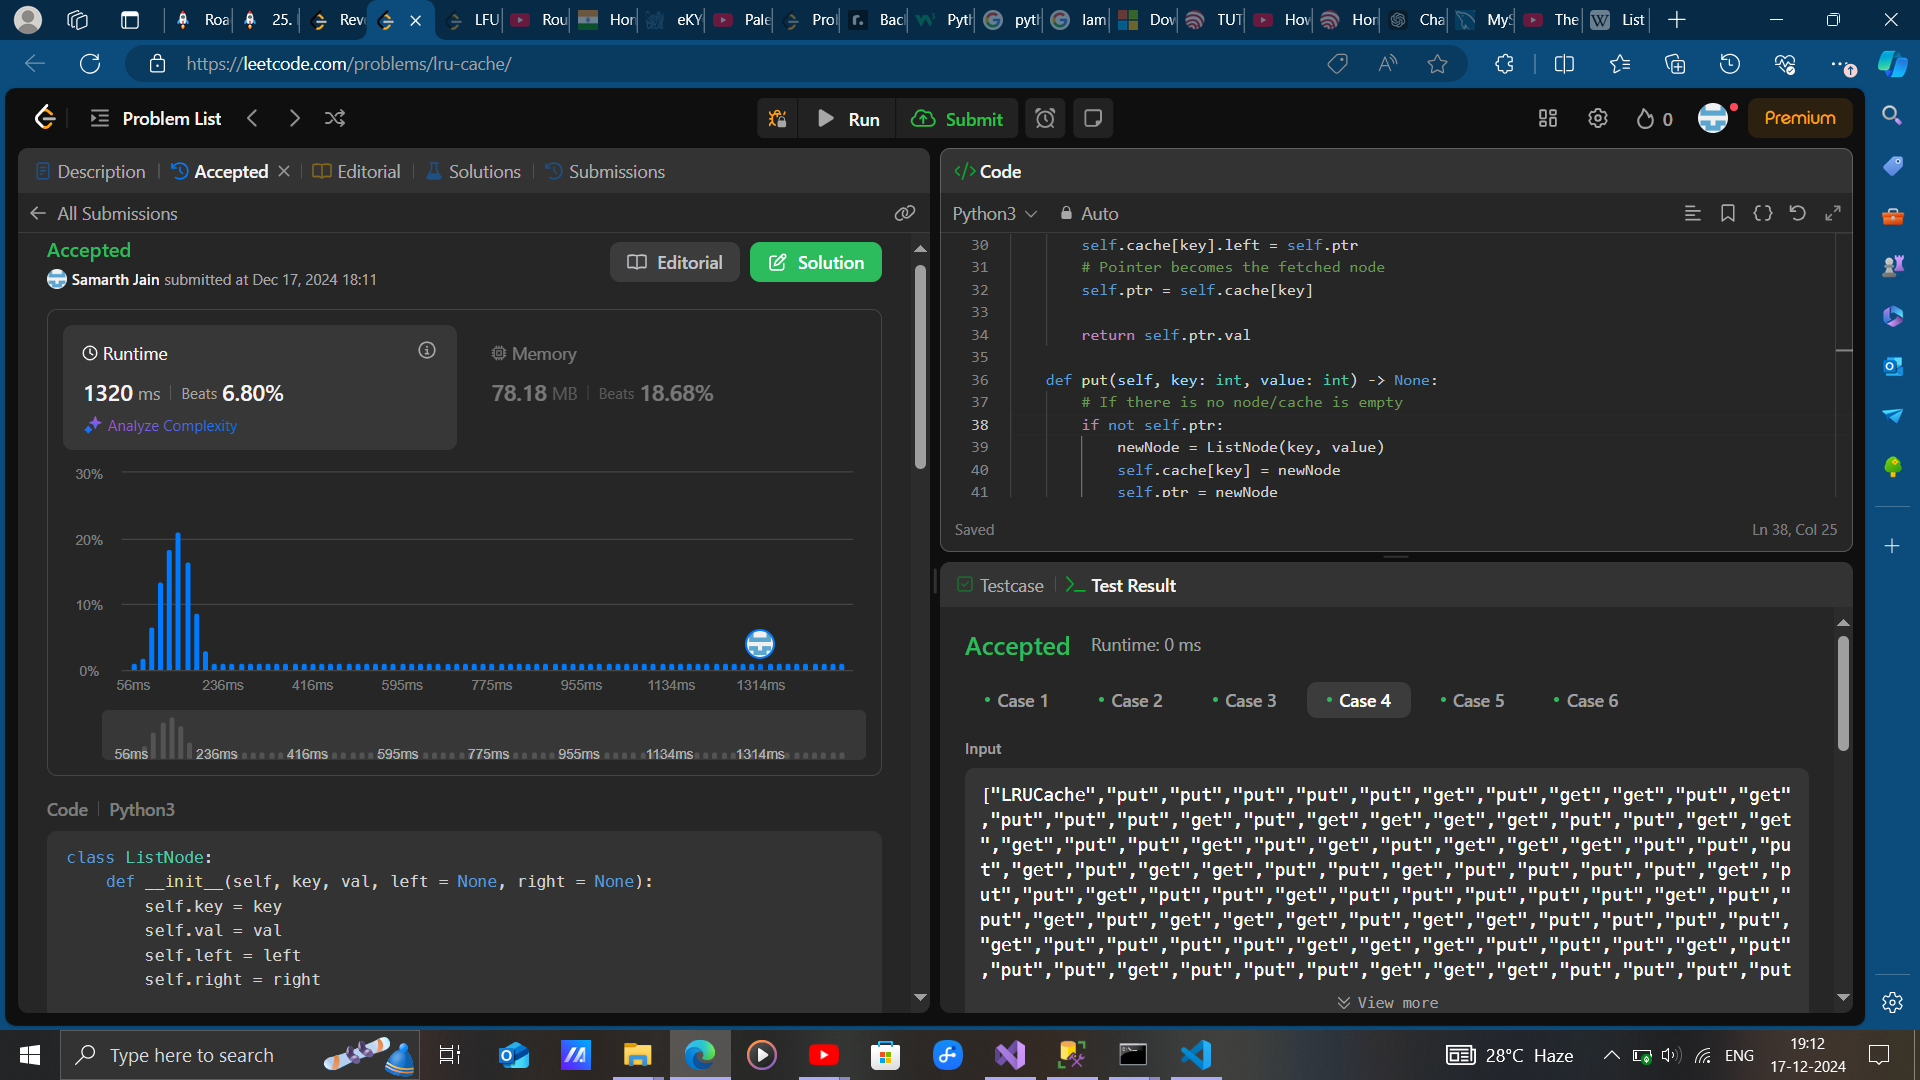
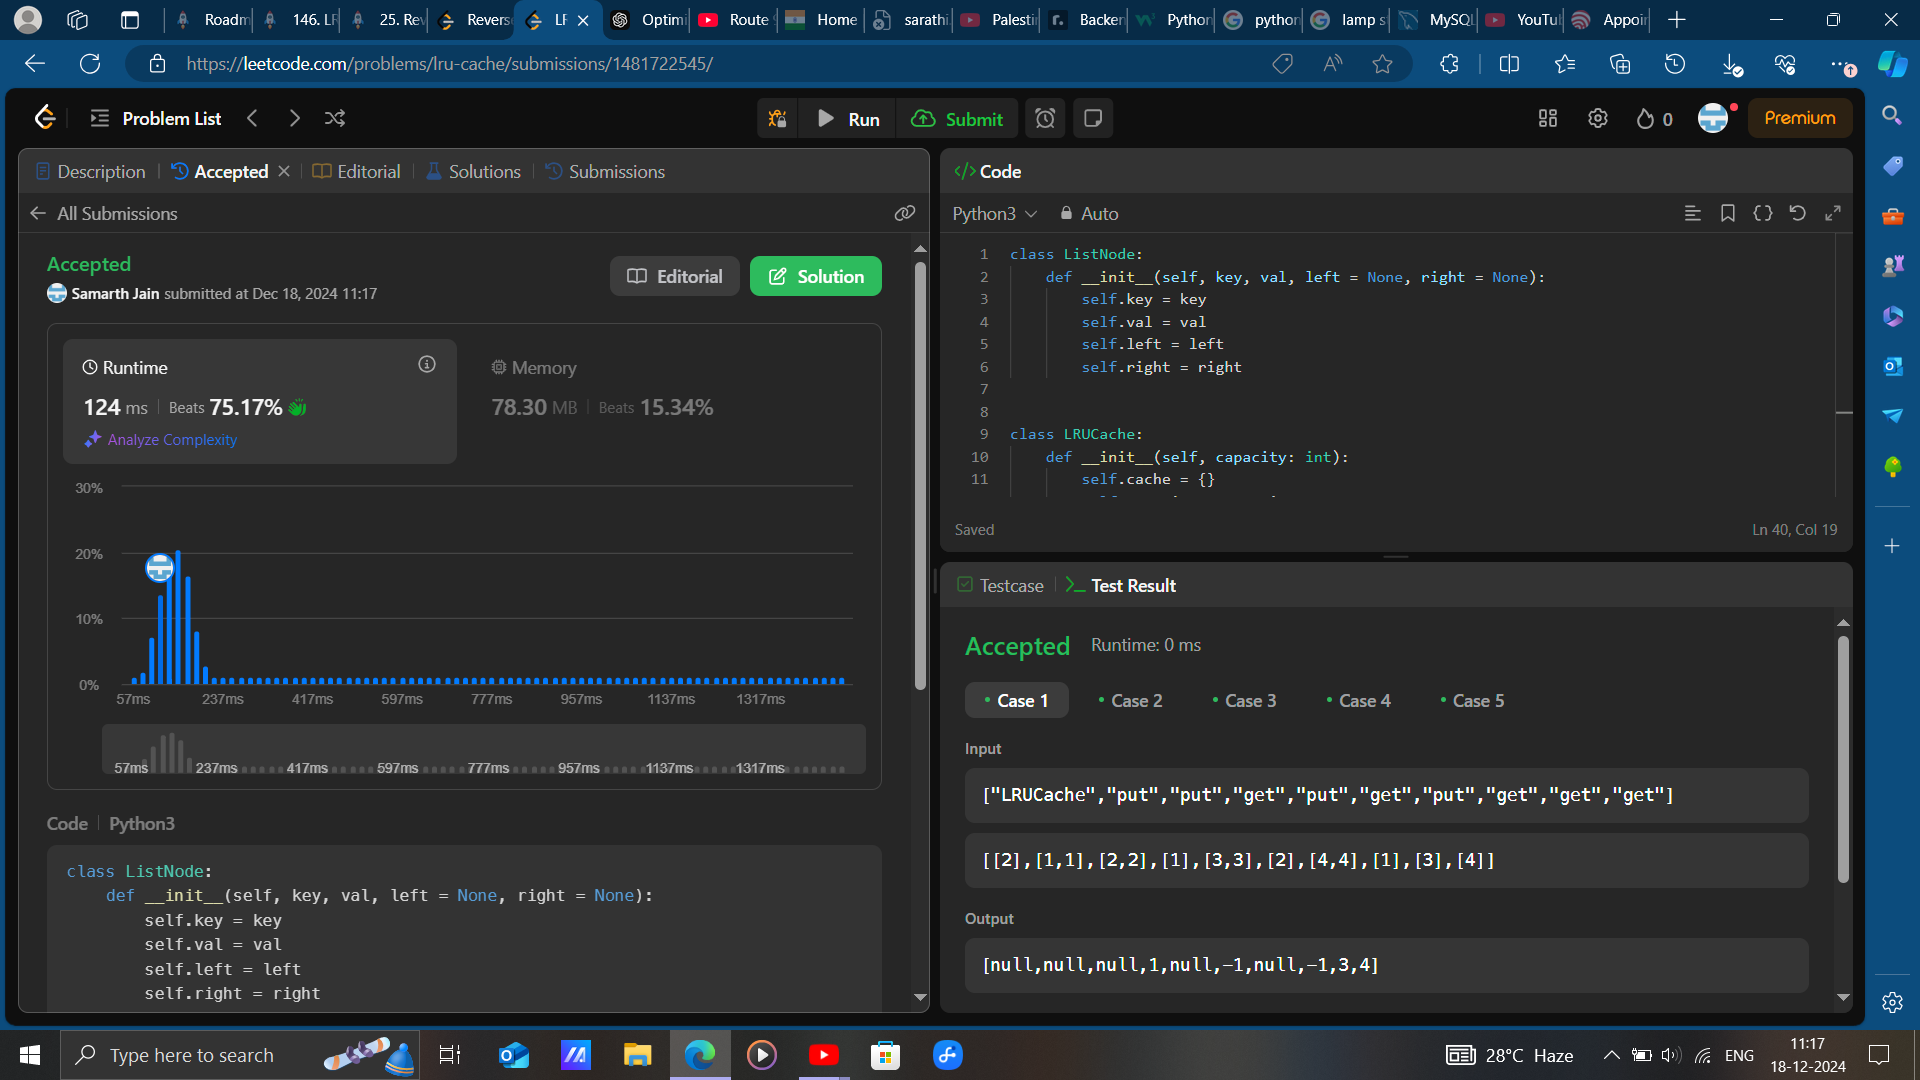
Leetcode-Solutions

diff --git a/Medium/[146] LRU Cache/[146] LRU Cache.py b/Medium/[146] LRU Cache/[146] LRU Cache.py
@@ -1,8 +1,8 @@
 """
 Accepted
 146 [Medium]
-Runtime: 1320 ms, faster than 6.80% of Python3 online submissions for LRU Cache.
-Memory Usage:  78.18 MB, less than 18.68% of Python3 online submissions for LRU Cache.
+Runtime: 124 ms, faster than 75.17% of Python3 online submissions for LRU Cache.
+Memory Usage:  78.30 MB, less than 15.34% of Python3 online submissions for LRU Cache.
 """
 class ListNode:
     def __init__(self, key, val, left = None, right = None):
